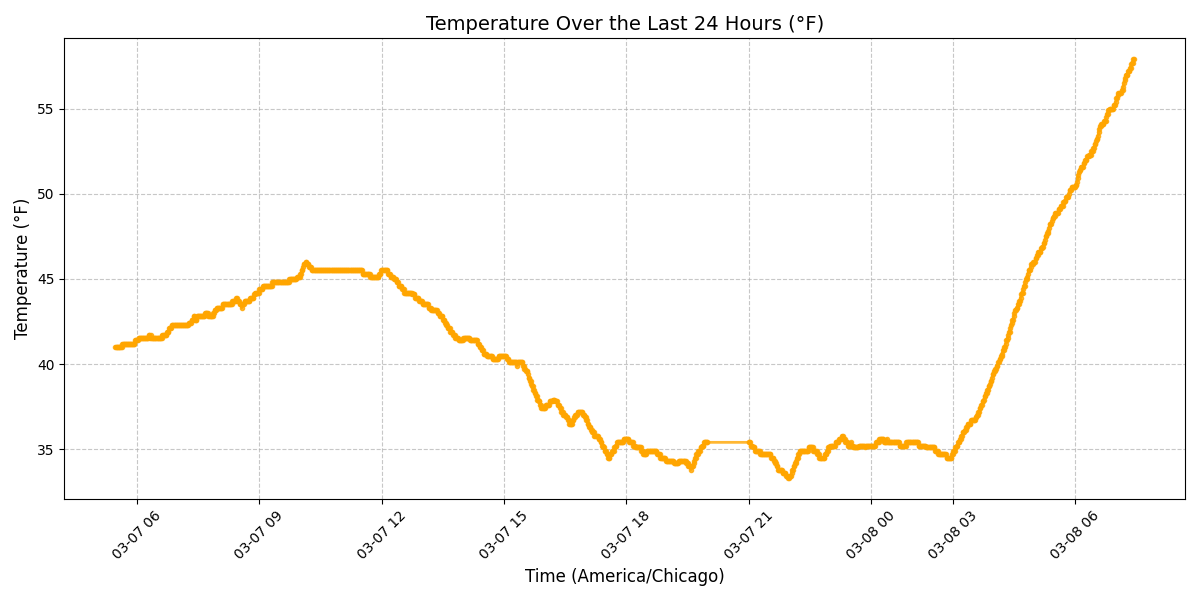
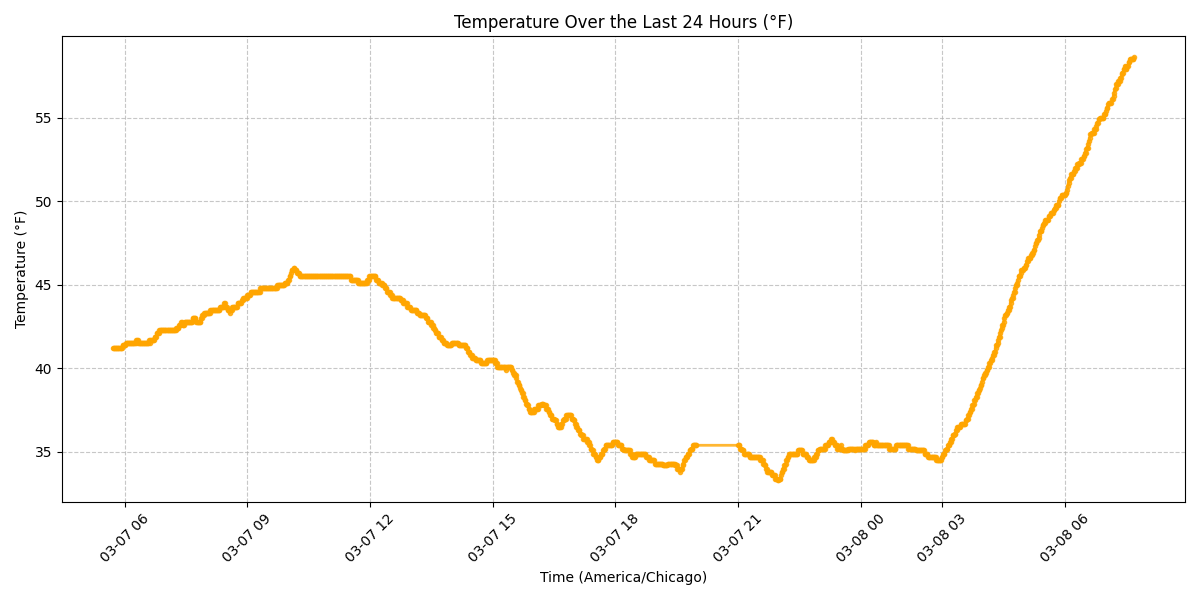
created proper modules

diff --git a/api_client.py b/api_client.py
@@ -1,0 +1,64 @@
+# api_client.py
+import requests
+from datetime import datetime, timedelta, timezone
+from dotenv import load_dotenv
+import os
+import pandas as pd
+import pytz
+
+load_dotenv()
+TOKEN = os.getenv('TOKEN')
+DEVICE_ID = os.getenv('DEVICE_ID')
+
+def get_historical_obs(hours_back=24):
+    if not TOKEN or not DEVICE_ID:
+        raise ValueError("Missing TOKEN or DEVICE_ID in .env file")
+
+    now = datetime.now(timezone.utc)
+    time_end = int(now.timestamp())
+    time_start = int((now - timedelta(hours=hours_back)).timestamp())
+
+    url = (f"https://swd.weatherflow.com/swd/rest/observations/device/{DEVICE_ID}"
+           f"?time_start={time_start}&time_end={time_end}&token={TOKEN}")
+    
+    try:
+        response = requests.get(url, timeout=15)
+        response.raise_for_status()
+        data = response.json()
+
+        obs_list = data.get('obs', [])
+        if not obs_list:
+            print("No historical observations returned. Check time range or device.")
+            return None
+
+        records = []
+        for obs in obs_list:
+            temp_c = obs[7]
+            temp_f = round(temp_c * 9/5 + 32, 1)
+
+            record = {
+                'timestamp': datetime.fromtimestamp(obs[0]),
+                'temp_f': temp_f,
+                'temp_c': temp_c,
+                'humidity_pct': obs[8],
+                'wind_avg_ms': obs[2],
+                'wind_gust_ms': obs[3],
+                'wind_dir_deg': obs[4],
+                'pressure_mb': obs[6],
+                'precip_mm_interval': obs[12],
+                'uv_index': obs[10],
+                'solar_rad_wm2': obs[11],
+            }
+            records.append(record)
+
+        df = pd.DataFrame(records)
+        local_tz = pytz.timezone('America/Chicago')
+        df['timestamp_local'] = df['timestamp'].dt.tz_localize('UTC').dt.tz_convert(local_tz)
+        df = df.sort_values('timestamp_local').reset_index(drop=True)
+        return df
+
+    except requests.RequestException as e:
+        print(f"API request failed: {e}")
+        if 'response' in locals() and hasattr(e.response, 'text'):
+            print("Response details:", e.response.text)
+        return None

diff --git a/test_historical.py b/test_historical.py
@@ -16,56 +16,6 @@ if not TOKEN or not DEVICE_ID:
     print("Missing TOKEN or DEVICE_ID in .env file!")
     exit(1)
 
-def get_historical_obs(device_id, token, hours_back=24):
-    now = datetime.now(timezone.utc)
-    time_end = int(now.timestamp())
-    time_start = int((now - timedelta(hours=hours_back)).timestamp())
-
-    url = (f"https://swd.weatherflow.com/swd/rest/observations/device/{device_id}"
-           f"?time_start={time_start}&time_end={time_end}&token={token}")
-    
-    try:
-        response = requests.get(url, timeout=15)
-        response.raise_for_status()
-        data = response.json()
-
-        obs_list = data.get('obs', [])
-        if not obs_list:
-            print("No historical observations returned. Check time range or device.")
-            return None
-
-        records = []
-        for obs in obs_list:
-            temp_c = obs[7]
-            temp_f = round(temp_c * 9/5 + 32, 1)  # Convert and round to 1 decimal
-
-            record = {
-                'timestamp': datetime.fromtimestamp(obs[0]),
-                'temp_f': temp_f,
-                'temp_c': temp_c,                # Keep Celsius too if you want
-                'humidity_pct': obs[8],
-                'wind_avg_ms': obs[2],
-                'wind_gust_ms': obs[3],
-                'wind_dir_deg': obs[4],
-                'pressure_mb': obs[6],
-                'precip_mm_interval': obs[12],
-                'uv_index': obs[10],
-                'solar_rad_wm2': obs[11],
-            }
-            records.append(record)
-
-        df = pd.DataFrame(records)
-        local_tz = pytz.timezone('America/Chicago')
-        df['timestamp_local'] = df['timestamp'].dt.tz_localize('UTC').dt.tz_convert(local_tz)
-        df = df.sort_values('timestamp_local').reset_index(drop=True)
-        return df
-
-    except requests.RequestException as e:
-        print(f"API request failed: {e}")
-        if 'response' in locals() and hasattr(e.response, 'text'):
-            print("Response details:", e.response.text)
-        return None
-
 # Fetch data
 df_hist = get_historical_obs(DEVICE_ID, TOKEN, hours_back=24)
 

diff --git a/main.py b/main.py
@@ -1,0 +1,39 @@
+# main.py
+from api_client import get_historical_obs
+from grapher import plot_temperature
+import sys
+
+def main():
+    print("Tempest Weather Tool")
+    print("1: Fetch & Graph Last 24h Temperature")
+    print("2: Fetch & Save Last 24h Data (no graph)")
+    print("q: Quit")
+
+    choice = input("Enter choice: ").strip().lower()
+
+    if choice == '1':
+        try:
+            df = get_historical_obs(hours_back=24)
+            if df is not None:
+                print(f"Fetched {len(df)} observations.")
+                # Optional: print summary with local time
+                print(df[['timestamp_local', 'temp_f', 'humidity_pct']].describe().round(1))
+                plot_temperature(df)  # Assuming grapher.py uses 'timestamp' or update to 'timestamp_local'
+            else:
+                print("No data returned.")
+        except Exception as e:
+            print(f"Error fetching data: {e}")
+    elif choice == '2':
+        try:
+            df = get_historical_obs(hours_back=24)
+            df.to_csv('historical_24h.csv', index=False)
+            print("Data saved to historical_24h.csv")
+        except Exception as e:
+            print(f"Error: {e}")
+    elif choice in ['q', 'quit', 'exit']:
+        sys.exit(0)
+    else:
+        print("Invalid choice.")
+
+if __name__ == "__main__":
+    main()

diff --git a/grapher.py b/grapher.py
@@ -1,0 +1,17 @@
+# grapher.py
+import matplotlib.pyplot as plt
+
+def plot_temperature(df, save_path='temp_24h.png'):
+    plt.figure(figsize=(12, 6))
+    plt.plot(df['timestamp_local'], df['temp_f'], color='orange', linewidth=2, marker='o', markersize=3, alpha=0.8)
+    plt.title('Temperature Over the Last 24 Hours (°F)')
+    plt.xlabel('Time (America/Chicago)')
+    plt.ylabel('Temperature (°F)')
+    plt.grid(True, linestyle='--', alpha=0.7)
+    plt.xticks(rotation=45)
+    plt.tight_layout()
+    plt.savefig(save_path)
+    plt.show()
+    print(f"Graph saved as {save_path}")
+
+# Stretch: Add more plots later, e.g., def plot_humidity(df): ...
